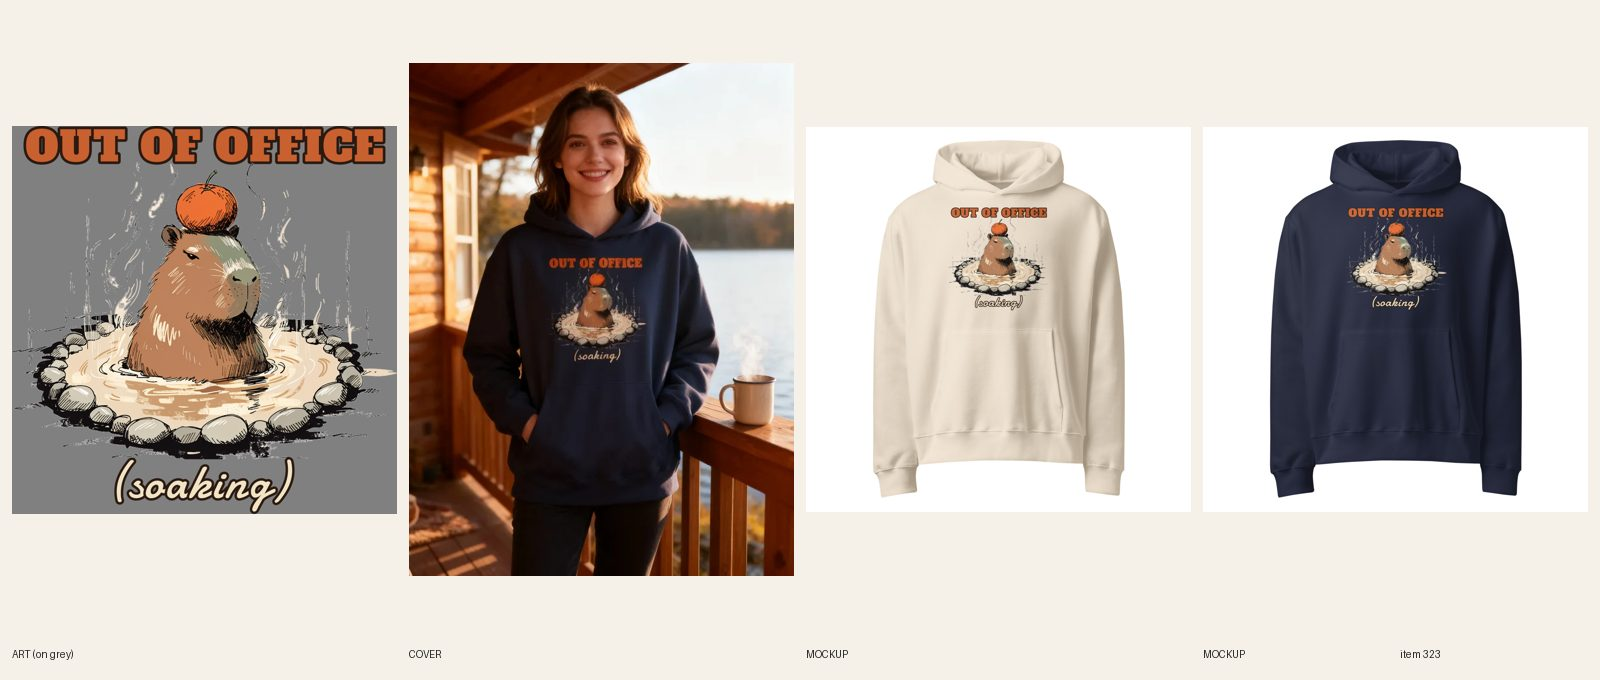
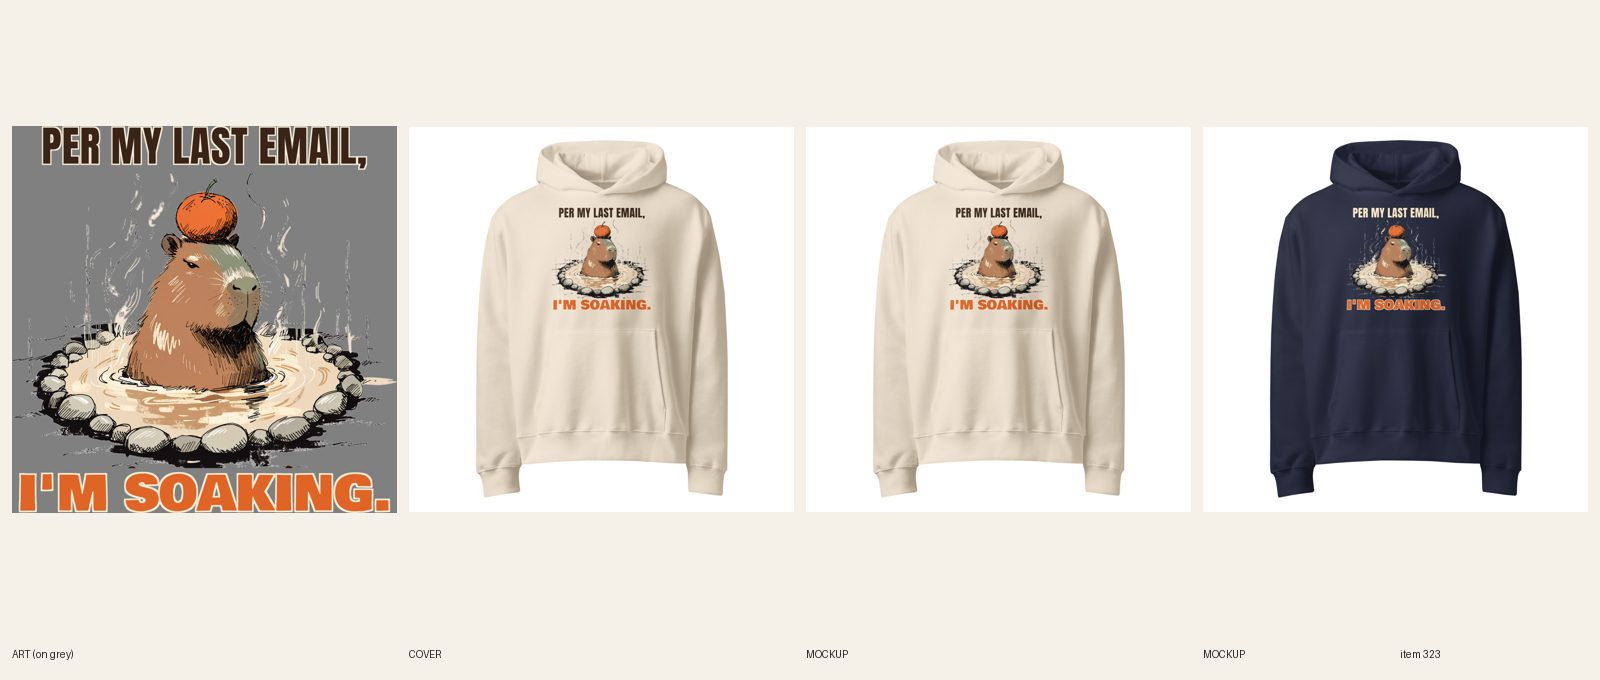
[C] review 323 (redo)
Claude-Session: https://claude.ai/code/session_01CCHcDj8LcJJ8qUPtKE3cvn

Changed region(s): [[0.0, 0.0926, 0.5, 0.8647], [0.8438, 0.2779, 0.9062, 0.4632], [0.5938, 0.2779, 0.6562, 0.4632]]

diff --git a/designs/c323/make.py b/designs/c323/make.py
@@ -1,0 +1,32 @@
+from PIL import Image, ImageDraw, ImageFont, ImageFilter
+FD='designs/fonts/'
+RED=(196,52,44,255); BROWN=(74,42,24,255); ORANGE=(224,100,38,255); CREAM=(246,236,214,255); BROWN=(58,36,24,255)
+def line(text,font,wfrac,W,fill,key,kw=31,track=0):
+    f=ImageFont.truetype(FD+font,800); adv=[f.getlength(c) for c in text]
+    tot=sum(adv)+track*(len(text)-1); size=int(800*W*wfrac/tot)
+    f=ImageFont.truetype(FD+font,size); adv=[f.getlength(c) for c in text]; tr=int(track*size/800)
+    asc,desc=f.getmetrics(); tot=int(sum(adv)+tr*(len(text)-1))
+    pad=80; im=Image.new('RGBA',(tot+2*pad,asc+desc+2*pad),(0,0,0,0))
+    def draw(layer,col):
+        d=ImageDraw.Draw(layer); x=pad
+        for c,a in zip(text,adv): d.text((x,pad),c,font=f,fill=col); x+=a+tr
+    k=Image.new('L',im.size,0); d=ImageDraw.Draw(k); x=pad
+    for c,a in zip(text,adv): d.text((x,pad),c,font=f,fill=255); x+=a+tr
+    k=k.filter(ImageFilter.MaxFilter(kw)); im.paste(Image.new('RGBA',im.size,key),(0,0),k)
+    draw(im,fill)
+    return im.crop(im.getbbox())
+src=Image.open('docs/print-files/323-out-of-office-soaking.png').convert('RGBA')
+W=src.width; art=src.crop((0,356,W,3056))
+import sys
+NAVYV=len(sys.argv)>1
+h1=line("PER MY LAST EMAIL,",'Anton-Regular.ttf',0.85,W,CREAM if NAVYV else BROWN,BROWN if NAVYV else CREAM,kw=25,track=14)
+h2=line("I'M SOAKING.",'BowlbyOne-Regular.ttf',0.97,W,ORANGE,CREAM,kw=31)
+print('h1',h1.size,'h2',h2.size,'ratio h2/h1',h2.height/h1.height)
+g=34; H=h1.height+g+art.height+g+h2.height
+out=Image.new('RGBA',(W,H),(0,0,0,0))
+out.alpha_composite(h1,((W-h1.width)//2,0)); y=h1.height+g
+out.alpha_composite(art,(0,y)); y+=art.height+g
+out.alpha_composite(h2,((W-h2.width)//2,y))
+out.save('docs/print-files/323-v2-soaking%s.png'%('-navy' if NAVYV else '')); print(out.size,H/W)
+for n,c in ((('navy',(38,50,88,255)),) if NAVYV else (('dust',(200,184,170,255)),('navy0',(38,50,88,255)))):
+    bg=Image.new('RGBA',out.size,c); bg.alpha_composite(out); bg.convert('RGB').resize((600,int(600*H/W))).save(f'designs/c323/prev_{n}.png')

diff --git a/docs/pipeline/323-capybara-hoodie-out-of-office.md b/docs/pipeline/323-capybara-hoodie-out-of-office.md
@@ -1,4 +1,4 @@
-status: REDO
+status: REVIEW
 lane: C
 type: new
 id: 323
@@ -29,3 +29,4 @@ kd: 16
 - 2026-10-17 20:16 UTC builder [C]: REVIEW. Sync 12/12. Sheet docs/review/323.jpg. design-crops and variant-photo audit cover published products only: rerun when ACTIVE. Local cohesion audit not run (no spec file); copy checked by hand against the art. 
 - 2026-10-17 20:19 UTC director: APPROVED, LIVE. ACTIVE + published Online Store, Headless, Google; cohesion-audit --handle PASS. 'capybara hoodie' cut from 7 to 2 uses in the FAQs (audit stuffing warn).
 - 2026-10-18 17:22 UTC director: QUALITY RESET grade C (new line + type), REDO. The product stays ACTIVE (same handle, URL, title keyword). 1. Line (R3.12, quality-reset 'Lines'): "OUT OF OFFICE / (soaking)": Noun + mild aside; thin script second line on navy. Write 5 candidates, keep the one a stranger laughs at in 3 seconds without backstory; kill lines that only describe the picture; if none of the 5 is funny, PARK it. 2. Quality reset type bar (docs/backlog/quality-reset.md, 'The new bar'): headline at least 90% of the art width, heavy, colors pulled from the art; second line at least 45% of the headline's height, never a thin script on a dark or mid garment; use the lettering as a shape (arch, stacked lockup, words breaking into the art), not a plain bar above and a script line below; no font used on more than 1 in 6 of the last 30 designs. 3. Keep the art if it carries the new line, else one new illustration (R4/R5). New print means a new cover per R6.10, copy line one rewritten for the new joke (R8.3), and a fresh review sheet (R7.7). While quality-reset.md says PAUSED, only lane A builds, and only the samples step 2 names.
+- 2026-10-20 06:05 UTC builder [C]: REDO new line + type (grade C). 5 candidates: "PER MY LAST EMAIL, / I'M SOAKING." (kept: office-speak every woman knows, payoff in the picture), "OUT OF OFFICE (soaking)" (old), "EMAILS CAN WAIT. I'M SIMMERING.", "SORRY, I'M STEEPING.", "SOAKING UP THE WORKLOAD". Same capybara hot-spring art, steam wisps kept. PER MY LAST EMAIL, Anton 85% of the art width; I'M SOAKING. Bowlby One 97% width, orange with cream keyline (94% of the first line's height). Light file (R5.3.8): Dust file 1090151395 has the top line in dark brown with a cream keyline (docs/print-files/323-v2-soaking.png); Navy file (cream top line, brown keyline, docs/print-files/323-v2-soaking-navy.png) is a separate file; logged: light file Dust on file 1090151395, headline fill brown. Print 3528 x 3547, FW 1500 TOP 75 (oversized area), 12/12 relinked on each color's own file. 2 fronts replaced in place, read at phone size on both. Copy line one, story, FAQ and SEO rewritten for the new joke. Plain product shot. fal $0.

diff --git a/docs/intake-log.md b/docs/intake-log.md
@@ -8,6 +8,7 @@ RUNNING lane B since 2026-10-20 03:28 UTC
 2026-10-20 03:41 UTC — [B] Builder run: redid #362 Women's Baseball hoodie (line + type: MISSED THE PLAY. / SEEDS WERE GOOD., same art, Bowlby One, Navy + Sand light files, 12/12 synced). REVIEW. fal $0.
 2026-10-20 05:26 UTC — [E] Builder run: redid #388 Women's Christmas crewneck (line + type: SORRY, I'M BOOKED TILL JANUARY., new party-calendar art, Navy + Sand files, 12/12 synced, copy updated, plain product shot). REVIEW. fal $0.08.
 RUNNING lane C since 2026-10-20 03:23 UTC
+2026-10-20 06:07 UTC — [C] Builder run: redid #323 Women's Capybara oversized hoodie (new line + type: PER MY LAST EMAIL, / I'M SOAKING., Anton + Bowlby One, same hot-spring art, Dust file 1090151395 + Navy cream-top file, FW 1500 TOP 75, 12/12 relinked, 2 fronts replaced in place, copy + SEO updated, plain product shot). REVIEW. fal $0.
 2026-10-20 05:27 UTC — [C] Builder run: redid #561 Unisex Pitbull hoodie (new line + type: THE BELLY IS OPEN. / NO APPOINTMENT NEEDED., Bowlby One + Anton, same belly-up art, file 1090148539, FW 1500 TOP 0, 12/12 relinked, 2 fronts replaced in place, copy + SEO updated, plain product shot). REVIEW. fal $0.
 2026-10-20 05:02 UTC — [C] Builder run: redid #552 Women's Knitting hoodie (new line + type: DON'T TALK TO ME. / I'M COUNTING., Anton + Bowlby One, same armchair art, file 1090141621, FW 1500 TOP 0, 12/12 relinked, 2 fronts replaced in place, copy + SEO updated, plain product shot). REVIEW. fal $0.
 2026-10-20 04:32 UTC — [C] Builder run: redid #554 Men's Grandpa I Fix Things After Naps hoodie (new line + type: I'M FIXING IT. / EYES CLOSED. STILL WORKING., Bevan + Anton full width, same recliner art, file 1090139027, FW 1500 TOP 0, 12/12 relinked, 2 fronts replaced in place, copy + SEO updated, plain product shot). REVIEW. fal $0.
